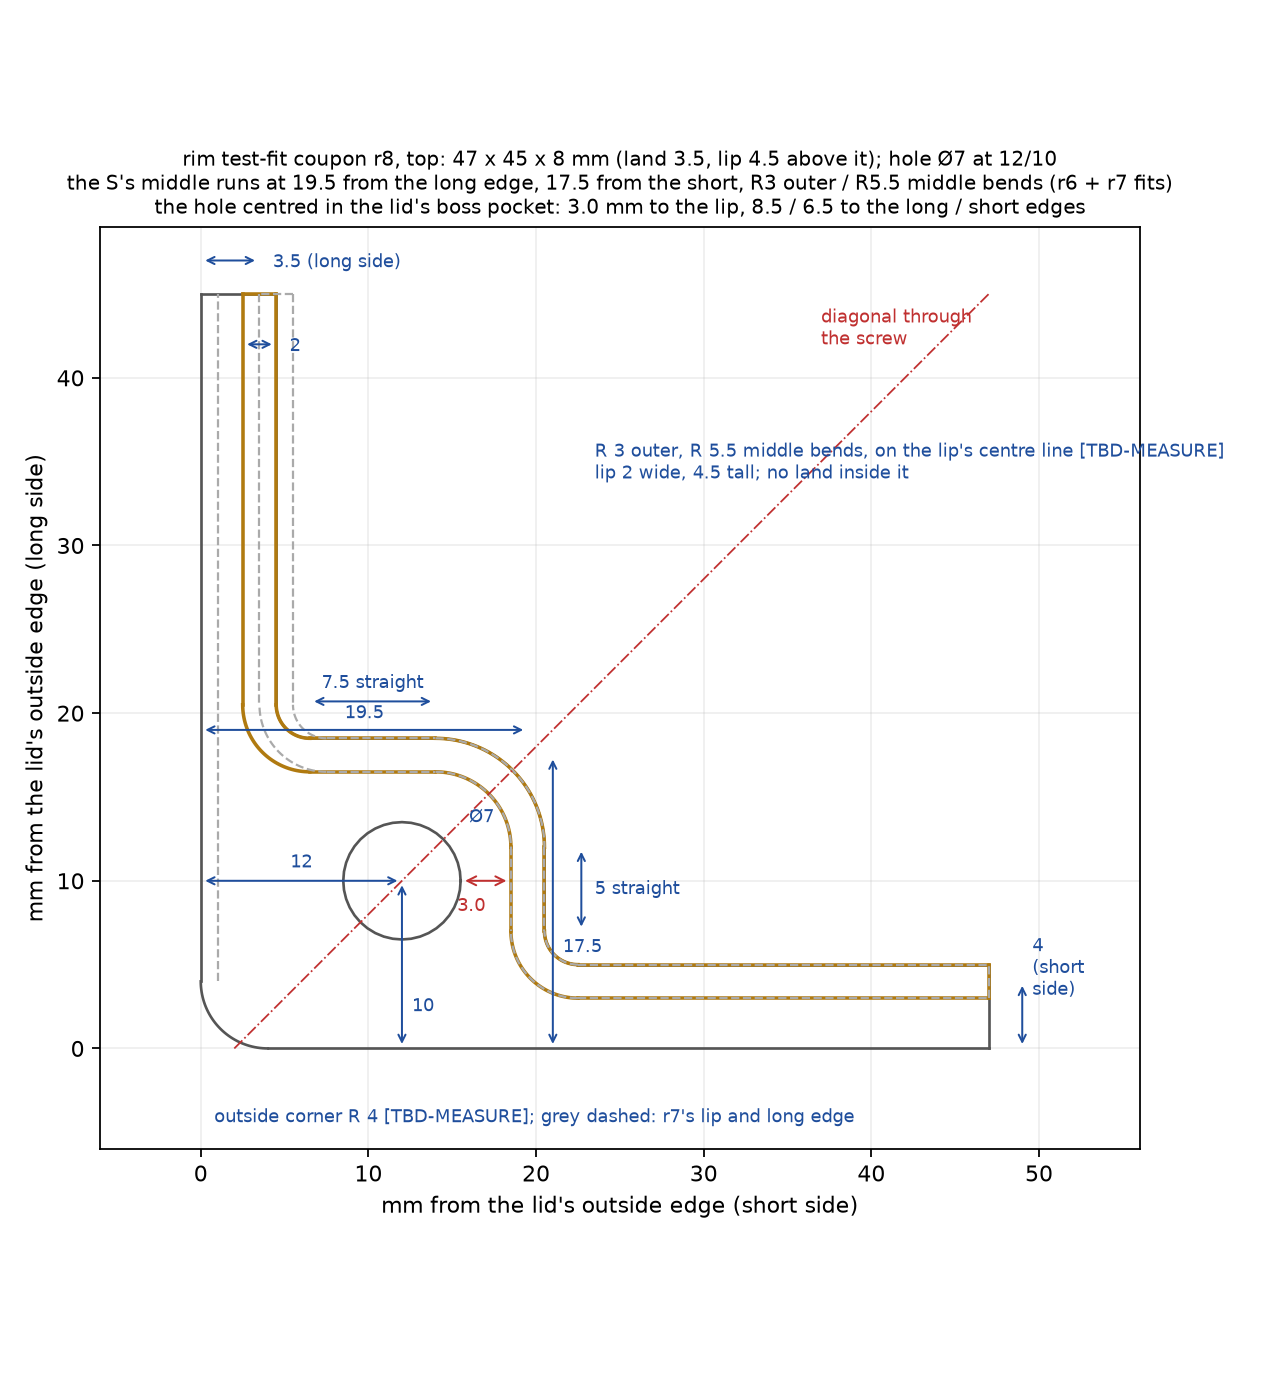
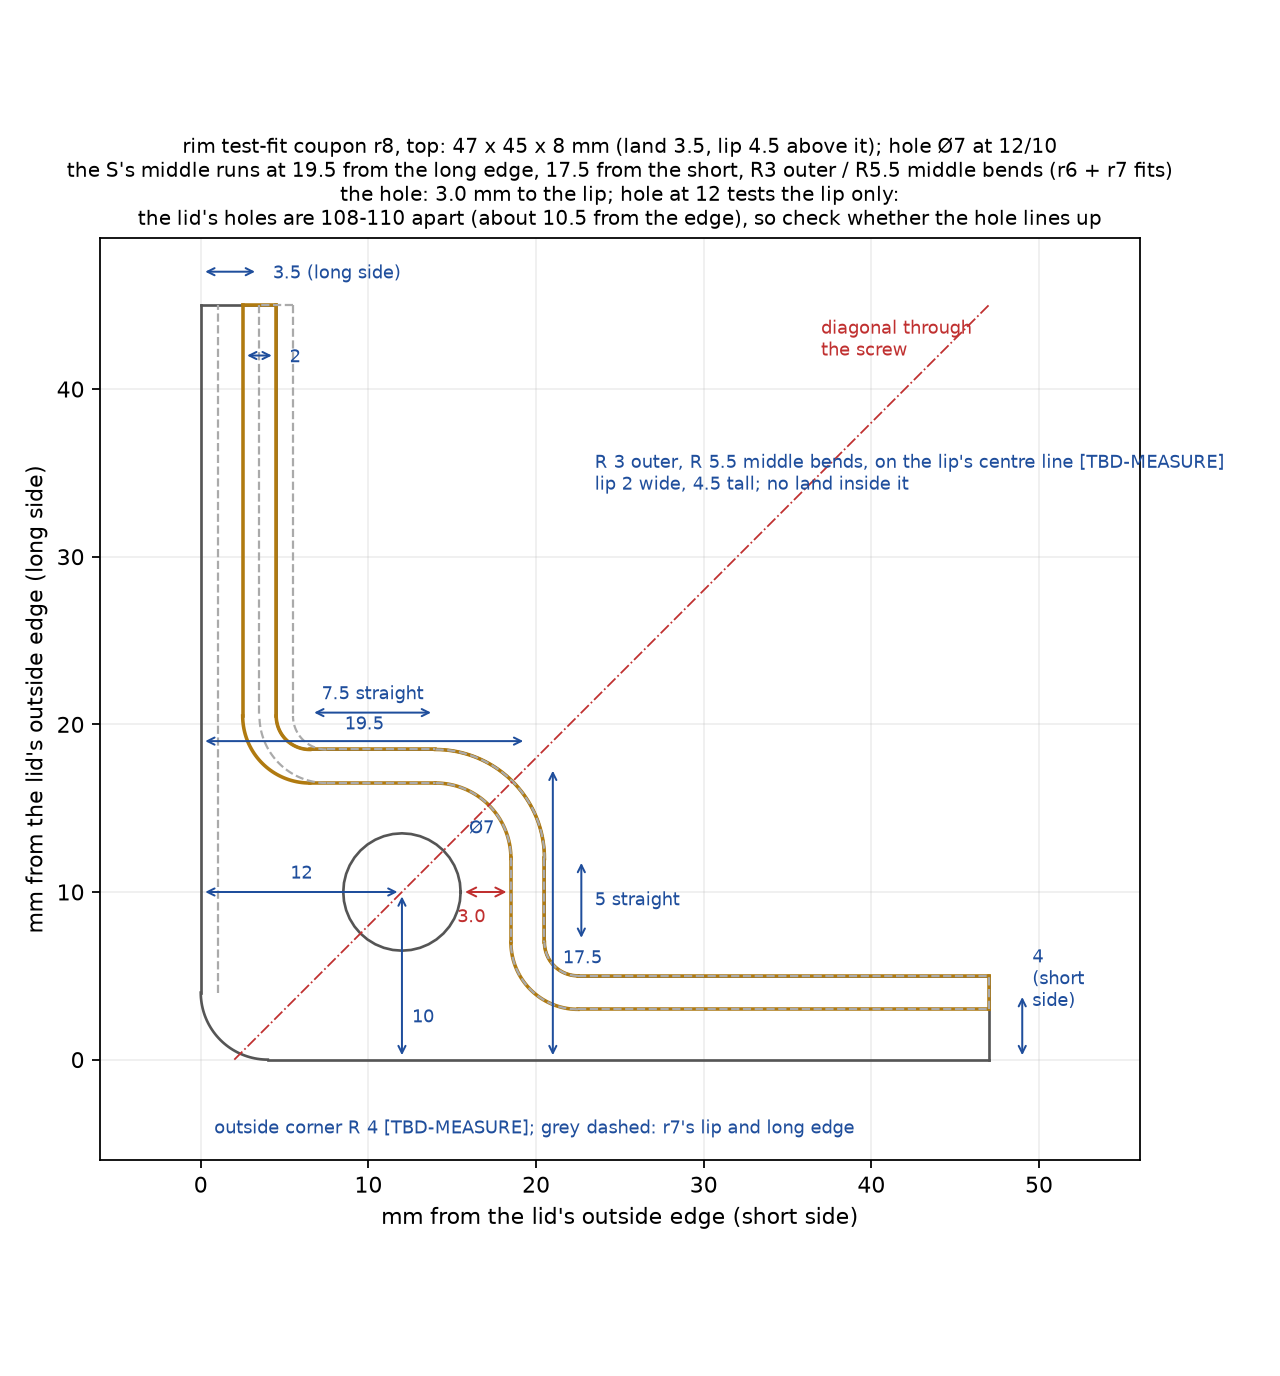
hardware: TX base screws 109 apart; coupon r8's long-edge shift kept to the coupon
Clint measured the lid's two hole centres across the short side at 108-110 apart, so the
base's long-side screws go to 109 apart, 10.5 from each edge [TBD-MEASURE]. The r7/r8
long-edge shift is a lip-position test: it lives only in the coupon (coupon_long_shift,
coupon_hole), and the base's long-side lip and S stay at r6's position. Coupon r8 itself is
unchanged. Its title now says the hole at 12 tests the lip only and asks whether it lines up.

diff --git a/hardware/tx-stack-r1/sources.py b/hardware/tx-stack-r1/sources.py
@@ -128,14 +128,16 @@ D = {
     "l1_lid_screw": ((8.0, 0.0, 0.0), "L1: the original lid screw: thread diameter, pitch, length (option a, a printed thread to match)", "Clint, 2026-11-10 (photo-8528 rim.jpg and notes, via the coordinator): the original base's corner holes are large moulded threads, about 8 mm (coarse plastic thread in the photo); pitch and length not measured", "TBD"),
     "lid_screw_opt": ("b", "lid screws: (a) a printed thread matching the original screw; (b) M4 stainless screws with washers through the lid's 8 mm holes into M4 heat-set inserts", "layout choice (recommended b: brass inserts survive the lid coming off many times, a printed PETG thread wears; the original screw is not needed)", "derived"),
     "seal_curve_r": ((3.0, 5.5), "radii of the S-curve's bends round each corner boss, on the lip's centre line: the two outer bends (where it leaves the straight legs), the middle bend (round the boss's inner corner); tangent, axis-aligned exits", "photo-8539: outer about R3; Clint's coupon r6 fit, 2026-11-10 (via the coordinator): the middle bend R5.5", "TBD"),
-    "seal_s": ((13.5, 16.0), "the S-curve round each corner boss, lip centre line to lip centre line: the segment along the short side sits this far in from the short-side lip line, the segment along the long side this far in from the long-side lip line", "photo-8539: the middle runs 17.5 from both edges; Clint's coupon r6 fit, 2026-11-10 (via the coordinator): the long-side edge and lip 1 mm further out, and the r7 fit another 1 mm, so the run along the long side is 19.5 from that edge", "sourced"),
+    "seal_s": ((13.5, 14.0), "the full base's S-curve round each corner boss, lip centre line to lip centre line: the segment along the short side sits this far in from the short-side lip line, the segment along the long side this far in from the long-side lip line (both at 17.5 from the outside edges)", "photo-8539: the middle runs 17.5 from both edges; held at r6 on the long side until coupon r8's fit tells more (Clint, 2026-11-10 (via the coordinator))", "sourced"),
     "coupon_bore": (7.0, "the rim coupon's screw hole (the full base keeps the insert's own bore, insert_m4)", "Clint's printed test fit of coupon r1, 2026-11-10 (photo-8533, via the coordinator): 25 % larger than r1's 5.6", "derived"),
+    "coupon_long_shift": (2.0, "coupon r8 only, a lip-position test: the long-side edge and its straight lip sit this much further out from the S and the hole than in the base (the S's run along the long side and the hole move with it in the coupon's frame)", "Clint, 2026-11-10 (via the coordinator): the r6 and r7 fits each asked for 1 mm; not applied to the base (the lid's holes are 108-110 apart)", "derived"),
+    "coupon_hole": ((12.0, 10.0), "coupon r8's hole centre from the long-side and short-side edges", "the sheet's 10/10 plus coupon_long_shift on the long side; it tests the lip only: check whether it lines up with the lid's hole", "derived"),
     "corner_r_out": (4.0, "the lid's (and the base's) outside corner radius, in plan", "estimated from Clint's photo-8526 at about 13.4 px/mm (about 50 px); measure", "TBD"),
     "coupon_fit": (False, "test-fit coupon (cage.py --coupon): the real lid pressed onto the printed rim corner; the lip in the O-ring along both sides and round the boss's S-curve, the screw hole under the lid's hole", "pending: Clint prints it (about 20 minutes) and fits the lid; set True and sourced when it fits", "TBD"),
     "m4_washer": ((12.0, 1.0), "M4 large (fender) washer, stainless: OD x thickness, for option b, over the lid's 8 mm hole", "ISO 7093-1 size 4 (d2 12, h 1), from the standard's table as remembered: check the ones bought", "TBD"),
     "m4_screw": ((8.0, 3.1, 20.0), "M4 stainless pan-head screw: head diameter, head height, length (option b)", "ISO 7045 M4 head (dk 8, k 3.1), from the standard's table as remembered; length a layout choice: through the lid boss (L1 pending) into the 8 mm insert", "TBD"),
     "lid_pocket": (14.0, "the lid's square corner pocket, inside width (the washer must seat in it); the hole 8 mm through its floor", "pending: Clint's photo-8526 shows a square pocket with a round counterbored hole; width placeholder", "TBD"),
-    "l2_screw_pos": ((10.0, 12.0), "L2: lid screw centre from the outside edges: from the short side, from the long side", "the sheet's 10/10, centred in the lid's boss pocket (photo-8539); Clint's coupon r6 fit, 2026-11-10 (via the coordinator): the long side's edge sits 1 mm further out than r6 had it, and the r7 fit another 1 mm (2 mm in all at this corner), so 12 from the long side (the width kept at Clint's tape 130.2, so the screws sit 106 apart across [TBD-MEASURE])", "sourced"),
+    "l2_screw_pos": ((10.0, 10.5), "L2: lid screw centre from the outside edges: from the short side, from the long side", "Clint, 2026-11-10 (via the coordinator): the lid's two hole centres across the short side are 108-110 apart (first 'exactly 110', then 'could be 108-109'): 109 for now, 10.5 from each long edge of the 130 lid; 10 from the short side (sheet, photo-8539). The coupons' long-edge shifts (r7, r8) are lip tests and are not applied here", "TBD"),
     "l4_oring_proud": (-2.0, "L4: how far the O-ring sits above (+) or below (-) the channel walls", "Clint, 2026-11-10 (lid-measure sheet, via the coordinator): inset about 2 mm below the walls", "sourced"),
     "l5_lid_out": ((175.0, 130.0, 6.0), "L5: lid outside length x width, corner radius (the base matches it; the radius in use is corner_r_out)", "length: Clint, 2026-11-10 (via the coordinator), re-measured 6-14/16 in = 174.6, agreeing with Adafruit's 175 (the earlier 6-3/4 was a misread); width about 130 by Clint's tape (Adafruit 128.5); corner radius a placeholder", "sourced"),
     "base_905": ((175.0, 131.0), "the original #905 base's outside length x width (wider than the lid)", "Adafruit #905 drawing, via the coordinator: base 131 wide against the lid's 128.5", "sourced"),

diff --git a/hardware/tx-stack-r1/cage/coupon_views.py b/hardware/tx-stack-r1/cage/coupon_views.py
@@ -44,14 +44,13 @@ def top(solid):
     for ln in outline(old, 0.5):
         ax.plot(*zip(*ln), color="#aaa", lw=1.0, ls="--")
     ax.plot([cage.COUPON_GHOST_EDGE] * 2, [4, cz], color="#aaa", lw=1.0, ls="--")
-    _sx, _sz = cage.SCREWS[0]
-    _o = (_sx - _sz)                                       # the 45-degree line through the screw
+    _hx, _hz = cage.COUPON_HOLE
+    _o = (_hx - _hz)                                       # the 45-degree line through the screw
     ax.plot([_o, _o + min(cx, cz)], [0, min(cx, cz)], color="#c03030", lw=0.8, ls="-.")
     ax.text(min(cx, cz) - 8, min(cx, cz) - 3, "diagonal through\nthe screw", color="#c03030", fontsize=8)
     cs, cl, w = cage.TONGUE_CS, cage.TONGUE_CL, cage.TONGUE_W
-    rise, run, r, ri = cage.S_RISE, cage.S_RUN, cage.CURVE_R, cage.CURVE_RI
-    sx, sz = cage.SCREWS[0]
-    hx, hz = sx + cage.T, sz + cage.T
+    rise, run, r, ri = cage.S_RISE, cage.COUPON_RUN, cage.CURVE_R, cage.CURVE_RI
+    hx, hz = cage.COUPON_HOLE
     blue = "#1f4e9c"
     kw = dict(arrowprops=dict(arrowstyle="<->", color=blue, lw=0.9), color=blue, fontsize=8)
     t = dict(color=blue, fontsize=8)
@@ -94,8 +93,9 @@ def top(solid):
     ax.set_ylabel("mm from the lid's outside edge (long side)")
     ax.set_title(f"rim test-fit coupon r8, top: {cx:g} x {cz:g} x {ch:g} mm (land {ch - cage.TONGUE_H:g}, lip "
                  f"{cage.TONGUE_H:g} above it); hole \u00d8{d:g} at {hx:g}/{hz:g}\nthe S's middle runs at "
-                 f"{cl + run:g} from the long edge, {cs + rise:g} from the short, R{r:g} outer / R{ri:g} middle bends (r6 + r7 fits)\nthe hole centred in the lid's boss pocket: "
-                 f"{clr:.1f} mm to the lip, {hx - d / 2:g} / {hz - d / 2:g} to the long / short edges", fontsize=9)
+                 f"{cl + run:g} from the long edge, {cs + rise:g} from the short, R{r:g} outer / R{ri:g} middle bends (r6 + r7 fits)\nthe hole: "
+                 f"{clr:.1f} mm to the lip; hole at {hx:g} tests the lip only:\nthe lid's holes are 108-110 apart "
+                 f"(about {S.val('l2_screw_pos')[1]:g} from the edge), so check whether the hole lines up", fontsize=9)
     ax.grid(alpha=0.2)
     fig.tight_layout()
     fig.savefig(OUT / "rim-coupon-top.png", dpi=160)

diff --git a/hardware/tx-stack-r1/cage/cage.py b/hardware/tx-stack-r1/cage/cage.py
@@ -321,7 +321,10 @@ def coax(arm):
     return pe, yb, zb, ax
 
 
-COUPON = (47.0, 45.0, 8.0)          # the test-fit coupon (r8): x from the long-side edge, z from the short-side edge: one rim corner, outside footprint x height; at least
+COUPON = (47.0, 45.0, 8.0)          # the test-fit coupon (r8)
+COUPON_RUN = S_RUN + S.val("coupon_long_shift")                # the coupon's S run along the long side (a lip test)
+COUPON_HOLE = S.val("coupon_hole")
+# the coupon: x from the long-side edge, z from the short-side edge: one rim corner, outside footprint x height; at least
 CORNER_R = S.val("corner_r_out")    #   10 mm of straight lip past each outer bend
 COUPON_GHOST = dict(cs=4.0, cl=4.5, rise=13.5, run=15.0, r=(3.0, 5.5, 3.0))   # r7's lip in r8's frame (its long edge
 COUPON_GHOST_EDGE = 1.0                                                        #   1 mm in), ghosted on the drawing
@@ -335,7 +338,7 @@ def coupon_seal_points(cs=None, cl=None, rise=None, run=None, far=90.0):
     cs = TONGUE_CS if cs is None else cs
     cl = TONGUE_CL if cl is None else cl
     rise = S_RISE if rise is None else rise
-    run = S_RUN if run is None else run
+    run = COUPON_RUN if run is None else run
     return [(cl, far), (cl, cs + rise), (cl + run, cs + rise), (cl + run, cs), (far, cs), (far, far)]
 
 
@@ -408,8 +411,8 @@ def coupon_solid():
     land = land.cut(cq.Workplane("XY").box(cx + 10, cz + 10, TONGUE_H + 1, centered=False).translate((-5, -5, land_h)))
     lip = seal_region(TONGUE_W / 2, land_h, TONGUE_H).cut(seal_region(-TONGUE_W / 2, land_h - 1, TONGUE_H + 2))
     shape = land.union(lip.intersect(sq))
-    sx, sz = SCREWS[0]
-    return shape.cut(cq.Workplane("XY").circle(S.val("coupon_bore") / 2).extrude(ch).translate((sx + T, sz + T, 0)))
+    hx, hz = COUPON_HOLE
+    return shape.cut(cq.Workplane("XY").circle(S.val("coupon_bore") / 2).extrude(ch).translate((hx, hz, 0)))
 
 
 def write_coupon():
